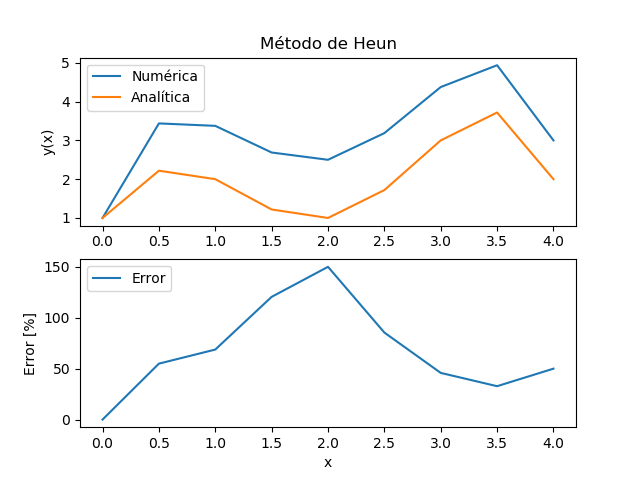
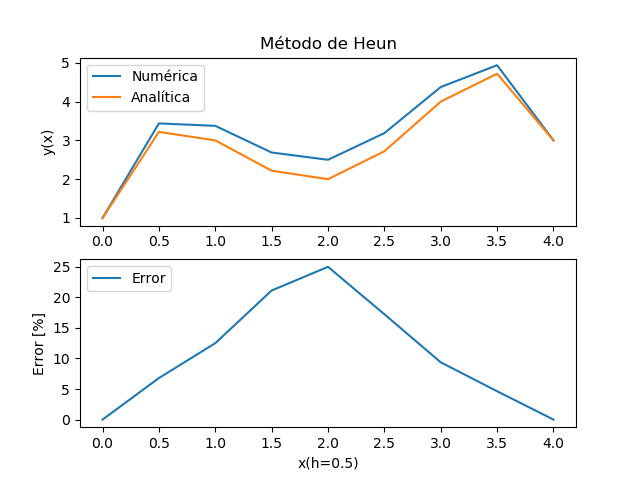
Práctica 5 con constante de integración

diff --git a/Practica5/practica5_2.py b/Practica5/practica5_2.py
@@ -20,7 +20,7 @@ def f(x,y):
 
 # Solución analítica
 def y(x):
-    return -(1/2)*(x**4)+4*(x**3)-10*(x**2)+8.5*x
+    return -(1/2)*(x**4)+4*(x**3)-10*(x**2)+8.5*x+1
 
 num=funciones.rk4(f,a,b,h,VI)
 analitica=funciones.evalua(y,a,b,h,VI)
@@ -35,7 +35,7 @@ plt.ylabel('y(x)')
 plt.subplot(212)
 plt.plot(num[0],error,label='Error')
 plt.legend(loc=2)
-plt.xlabel('x')
+plt.xlabel('x(h=0.5)')
 plt.ylabel('Error [%]')
 plt.savefig( 'rk4.png', fmt='PNG', dpi=100 )
 plt.show()

diff --git a/Practica5/practica5_1b.py b/Practica5/practica5_1b.py
@@ -17,7 +17,7 @@ def f(x,y):
 
 # Solución analítica
 def y(x):
-    return -(1/2)*(x**4)+4*(x**3)-10*(x**2)+8.5*x
+    return -(1/2)*(x**4)+4*(x**3)-10*(x**2)+8.5*x+1
 
 
 num=funciones.puntomediometh(f, a, b, h, VI)
@@ -33,7 +33,7 @@ plt.ylabel('y(x)')
 plt.subplot(212)
 plt.plot(num[0],error,label='Error')
 plt.legend(loc=2)
-plt.xlabel('x')
+plt.xlabel('x(h=0.5)')
 plt.ylabel('Error [%]')
 plt.savefig( 'PuntoMedio.png', fmt='PNG', dpi=100 )
 plt.show()

diff --git a/Practica5/practica5_1c.py b/Practica5/practica5_1c.py
@@ -23,7 +23,7 @@ def f(x,y):
 
 # Solución analítica
 def y(x):
-    return -(1/2)*(x**4)+4*(x**3)-10*(x**2)+8.5*x
+    return -(1/2)*(x**4)+4*(x**3)-10*(x**2)+8.5*x+1
 
 
 num=funciones.Ralston_meth(f,n,m,h,VI)
@@ -39,7 +39,7 @@ plt.ylabel('y(x)')
 plt.subplot(212)
 plt.plot(num[0],error,label='Error')
 plt.legend(loc=2)
-plt.xlabel('x')
+plt.xlabel('x(h=0.5)')
 plt.ylabel('Error [%]')
 plt.savefig( 'Ralston.png', fmt='PNG', dpi=100 )
 plt.show()

diff --git a/Practica5/practica5_1a.py b/Practica5/practica5_1a.py
@@ -17,7 +17,7 @@ def f(x,y):
 
 # Solución analítica
 def y(x):
-    return -(1/2)*(x**4)+4*(x**3)-10*(x**2)+8.5*x
+    return -(1/2)*(x**4)+4*(x**3)-10*(x**2)+8.5*x+1
 
 
 num=funciones.heun_method(f,n,m,h,VI)
@@ -33,7 +33,7 @@ plt.ylabel('y(x)')
 plt.subplot(212)
 plt.plot(num[0],error,label='Error')
 plt.legend(loc=2)
-plt.xlabel('x')
+plt.xlabel('x(h=0.5)')
 plt.ylabel('Error [%]')
 plt.savefig( 'Heun.png', fmt='PNG', dpi=100 )
 plt.show()

diff --git a/Practica5/practica5_3.py b/Practica5/practica5_3.py
@@ -20,7 +20,7 @@ def f(x,y):
 
 # Solución analítica
 def y(x):
-    return -(1/2)*(x**4)+4*(x**3)-10*(x**2)+8.5*x
+    return -(1/2)*(x**4)+4*(x**3)-10*(x**2)+8.5*x+1
 
 
 num=funciones.rk5(f,a,b,h,VI)
@@ -36,7 +36,7 @@ plt.ylabel('y(x)')
 plt.subplot(212)
 plt.plot(num[0],error,label='Error')
 plt.legend(loc=2)
-plt.xlabel('x')
+plt.xlabel('x(h=0.5)')
 plt.ylabel('Error [%]')
 plt.savefig( 'rk5.png', fmt='PNG', dpi=100 )
 plt.show()

diff --git a/Practica5/funciones.py b/Practica5/funciones.py
@@ -62,7 +62,7 @@ def rk5(f,a,b,h,VI):
         y[i] = y[i-1] + ((1/90)*(7*k1 + 32*k3 + 12*k4 + 32*k5 + 7*k6)*h)
     return x,y
 
-#Evalua una funció matemática
+#Evalua una función matemática
 def evalua(f,a,b,h,IV):
     N=int((b-a)/h)
     x=np.arange(a,b+h,h)
